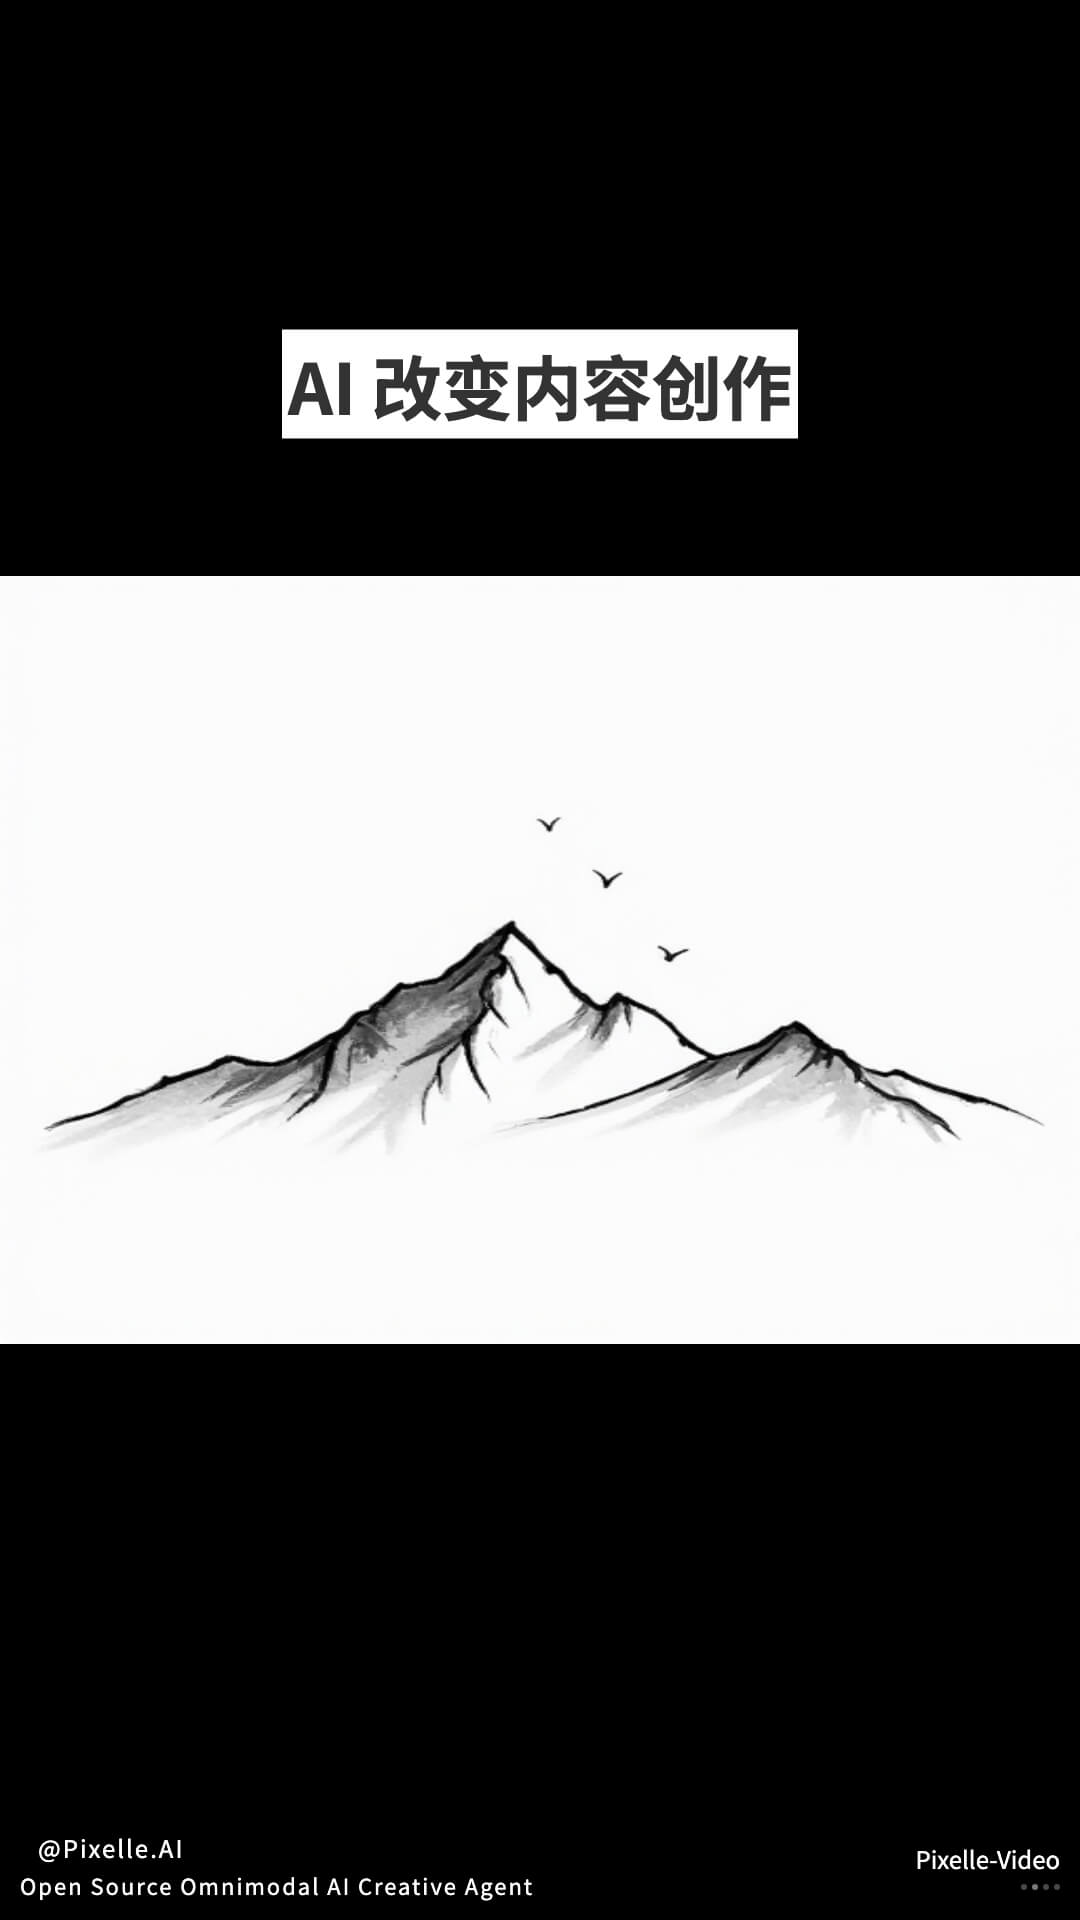
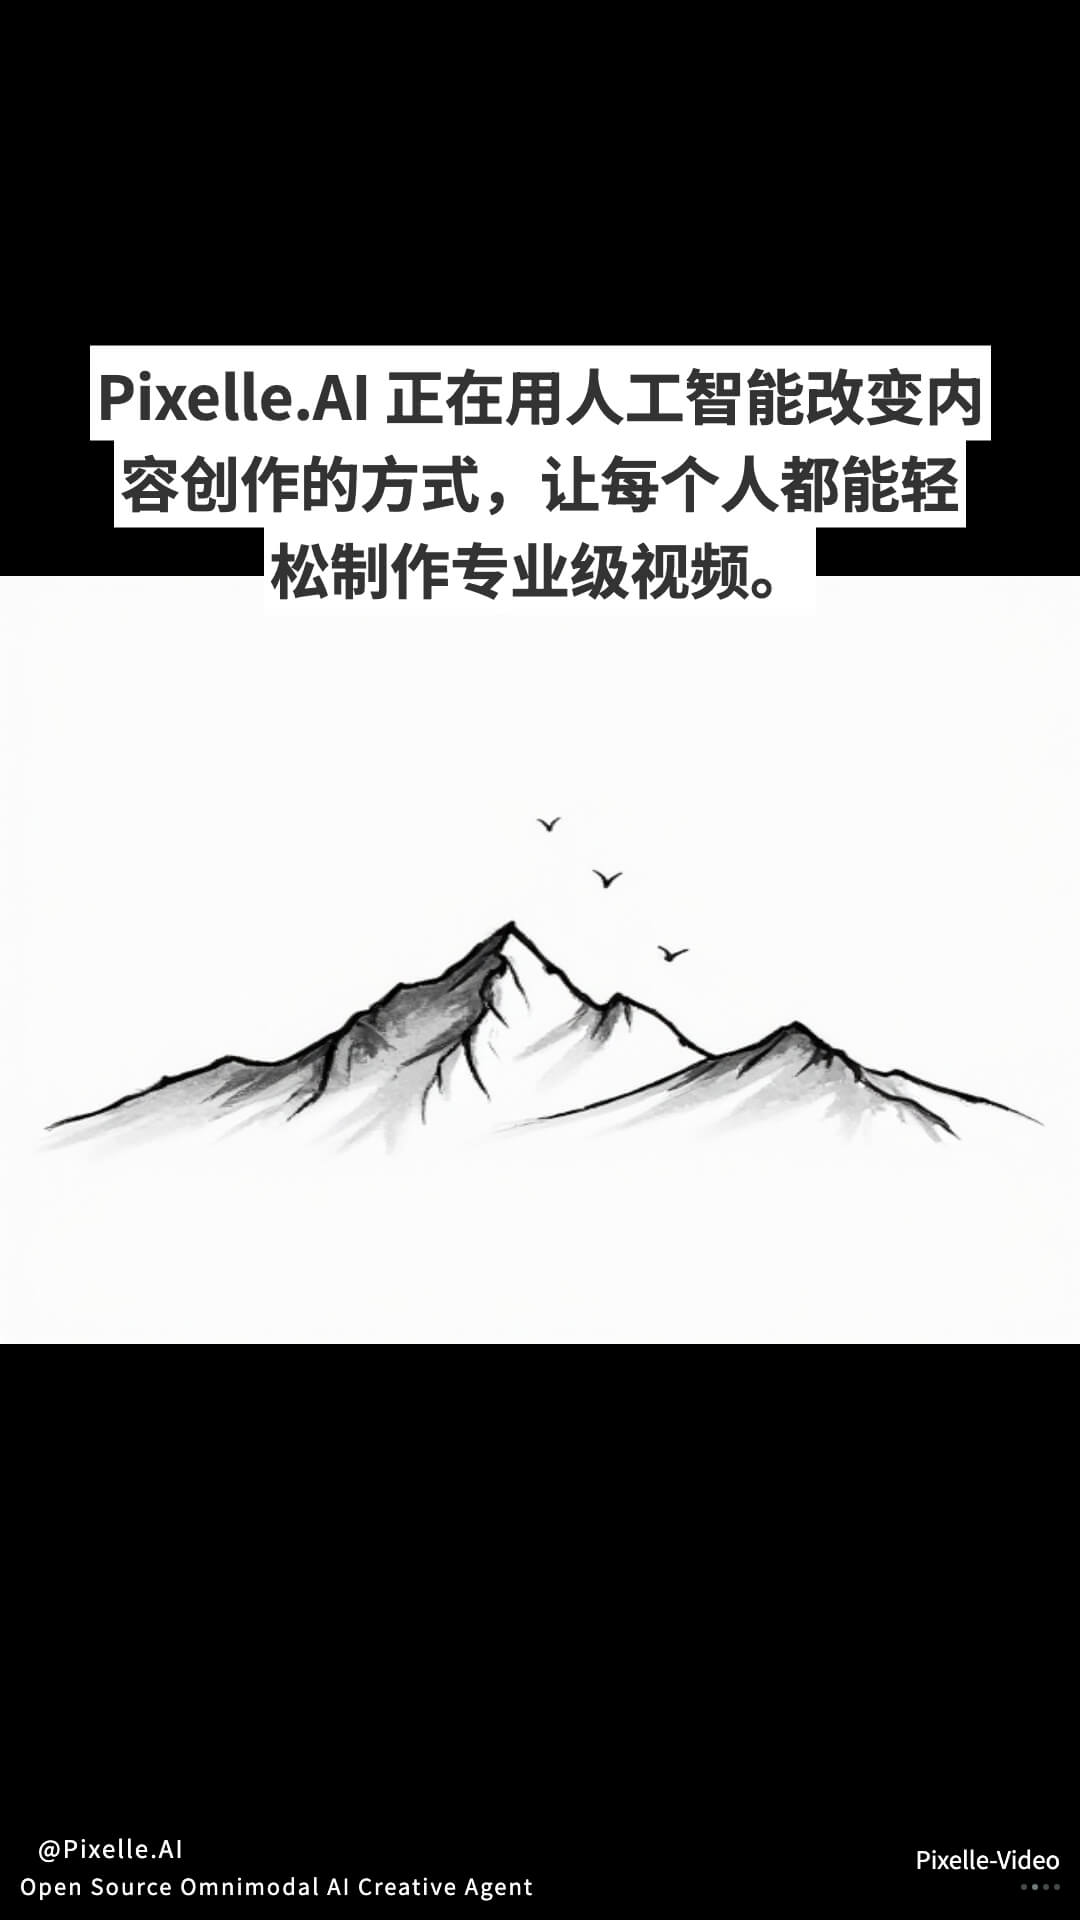
feat: update templates

Changed region(s): [[0.0611, 0.1562, 0.9167, 0.3125]]

diff --git a/templates/1080x1920/image_simple_line_drawing.html b/templates/1080x1920/image_simple_line_drawing.html
@@ -26,12 +26,13 @@
         .title-wrapper {
             position: absolute;
             width: 900px;
-            top: 20%;
+            top: 25%;
             left: 50%;
             transform: translate(-50%, -50%);
-            font-size: 70px;
+            font-size: 60px;
             font-weight: 600;
             text-align: center;
+            z-index: 10;
         }
 
         .title {
@@ -133,7 +134,7 @@
 </head>
 <body>
     <div class="title-wrapper">
-        <span class="title">{{title}}</span>
+        <span class="title">{{text}}</span>
     </div>
     <image src="{{image}}" class="image-center" />
     <div class="footer">
